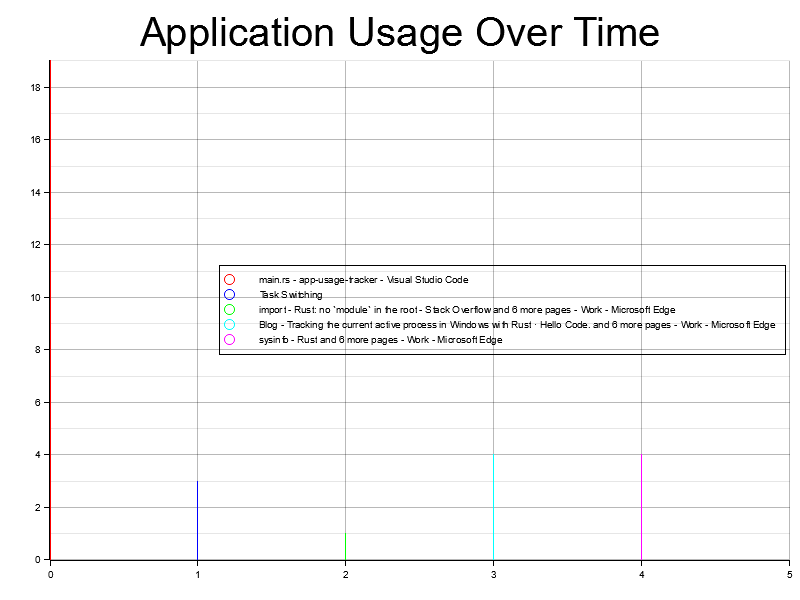
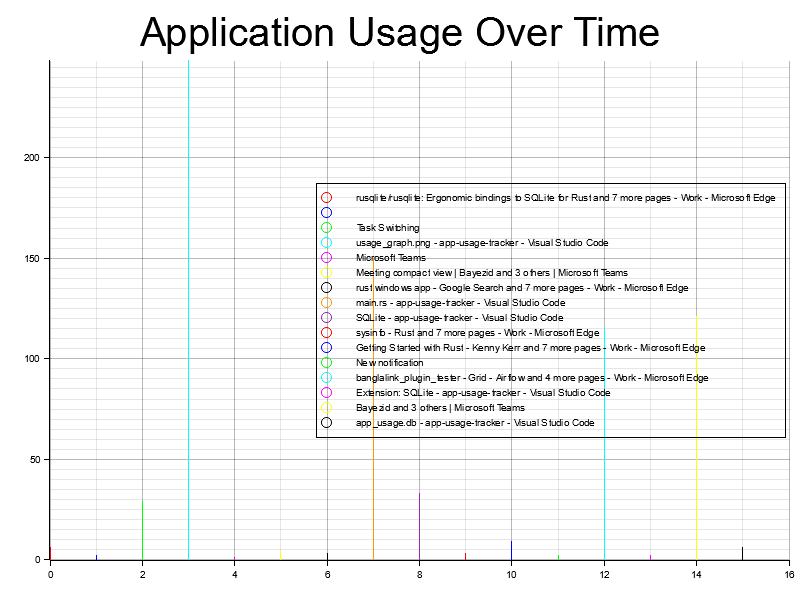
graph updating in a certain epoch

Changed region(s): [[0.0312, 0.09, 1.0, 0.93]]

diff --git a/src/main.rs b/src/main.rs
@@ -4,13 +4,15 @@ use full_palette::{ORANGE, PURPLE};
 use plotters::prelude::*;
 use rusqlite::{params, Connection, Result};
 use std::collections::HashMap;
+use std::sync::Arc;
 use std::time::Duration;
+use tokio::signal::ctrl_c;
 use tokio::time;
 
 #[derive(Debug)]
 pub struct AppUsage {
     pub name: String,
-    pub duration: u64, // Duration in seconds
+    pub duration: u64,
 }
 
 const IDLE_CHECK_SECS: i32 = 5;
@@ -94,30 +96,42 @@ pub fn draw_usage_graph_from_db(conn: &Connection) {
         .unwrap();
 }
 
-pub async fn track_processes(conn: &Connection) {
+pub async fn track_processes(conn: Arc<Connection>) {
     let mut interval = time::interval(Duration::from_secs(1));
+    let mut graph_interval = time::interval(Duration::from_secs(60)); // Generate graph every 60 seconds
     let mut i = 0;
     let mut idle = false;
 
     loop {
-        i += 1;
-        interval.tick().await;
+        tokio::select! {
+            _ = interval.tick() => {
+                i += 1;
 
-        if i == IDLE_CHECK_SECS {
-            // Check user input to see if we should pause tracking
-            let duration = windows_fg::get_last_input().as_secs();
-            idle = duration > IDLE_PERIOD;
-            i = 0;
-        }
+                if i == IDLE_CHECK_SECS {
+                    let duration = windows_fg::get_last_input().as_secs();
+                    idle = duration > IDLE_PERIOD;
+                    i = 0;
+                }
 
-        if !idle {
-            // Fetch window title and process ID from the current active window
-            let (window_pid, window_title) = windows_fg::get_active_window();
+                if !idle {
+                    let (window_pid, window_title) = windows_fg::get_active_window();
 
-            // Ensure valid window and process
-            if window_pid != 0 {
-                get_process(conn, &window_title); // Store usage data in the database
-            }
+                    if window_pid != 0 {
+                        get_process(&conn, &window_title);
+                    }
+                }
+            },
+            _ = graph_interval.tick() => {
+                // Generate graph at regular intervals
+                println!("Generating usage graph...");
+                draw_usage_graph_from_db(&conn);
+            },
+            _ = ctrl_c() => {
+                // Gracefully handle shutdown
+                println!("Received shutdown signal, generating final usage graph...");
+                draw_usage_graph_from_db(&conn);
+                break;
+            },
         }
     }
 }
@@ -129,10 +143,8 @@ pub fn get_process(conn: &Connection, window_title: &str) {
         return;
     }
 
-    // Use a dummy process name for illustration
-    let process_name = window_title.to_string(); // Replace with actual process name logic
+    let process_name = window_title.to_string();
 
-    // Check if the app already exists in the database and update its duration
     conn.execute(
         "INSERT INTO app_usage (app_name, duration) VALUES (?1, 1)
          ON CONFLICT(app_name) DO UPDATE SET duration = duration + 1",
@@ -143,18 +155,14 @@ pub fn get_process(conn: &Connection, window_title: &str) {
 
 #[tokio::main]
 async fn main() -> Result<()> {
-    let conn = Connection::open("app_usage.db")?;
+    let conn = Arc::new(Connection::open("app_usage.db")?);
 
-    // Create table if it doesn't exist
     create_usage_table(&conn)?;
 
     println!("App Usage Tracker started!");
 
-    // Track processes and store data in SQLite
-    track_processes(&conn).await;
-
-    // Draw the graph using the data from SQLite
-    draw_usage_graph_from_db(&conn);
+    // Track processes, handle periodic graph updates and shutdown signal
+    track_processes(conn.clone()).await;
 
     Ok(())
 }
